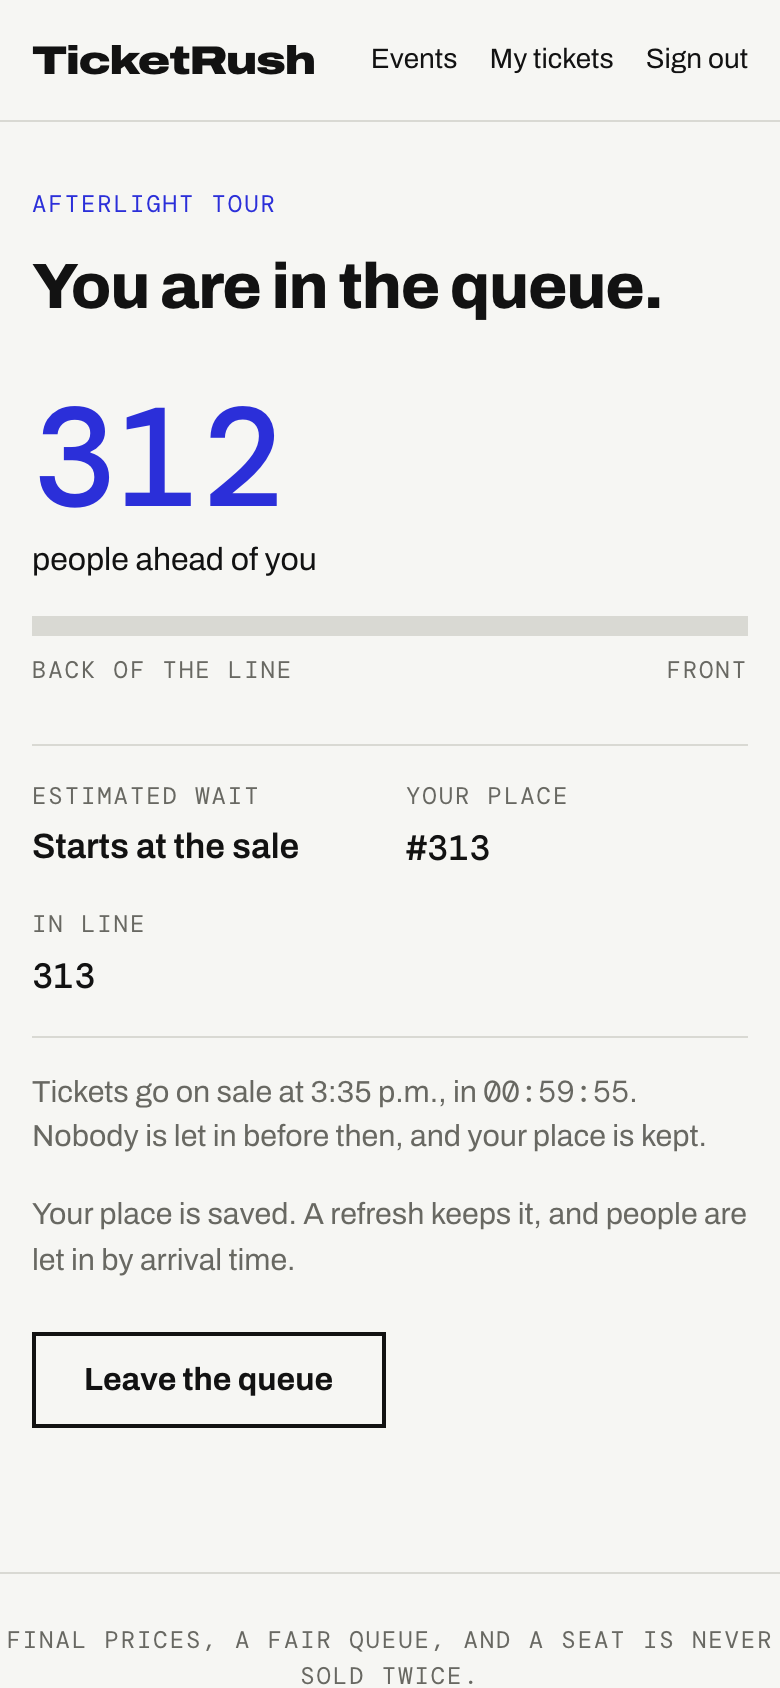
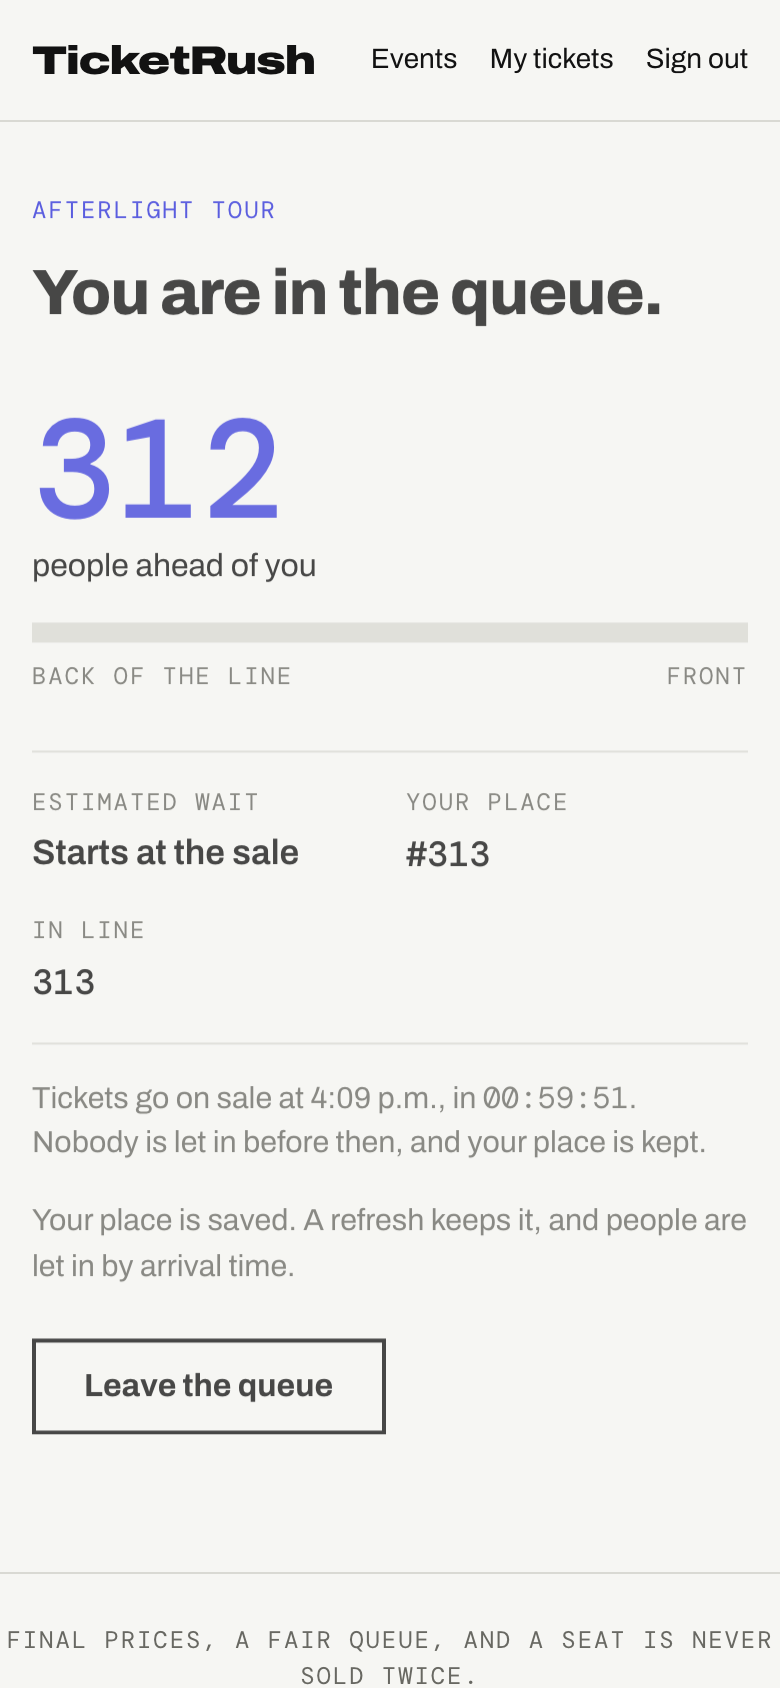
feat(web): screen motion polish, failure tests, error screenshots and decision record
Rolling numbers, seat pop and lift, urgent hold timer, printed-in tickets, breathing pending ring. Errors now render
inside the layout; the offline bar sits in the page flow. End-to-end tests for a failing server, 404, rate limit and
offline, with accessibility scans. ADR 0006.

diff --git a/frontend/e2e/errors.spec.ts b/frontend/e2e/errors.spec.ts
@@ -1,0 +1,72 @@
+import AxeBuilder from '@axe-core/playwright'
+import type { Page } from '@playwright/test'
+import { expect, settle, test } from './support/fixtures'
+
+async function expectAccessible(page: Page, where: string) {
+  await settle(page)
+  const { violations } = await new AxeBuilder({ page }).withTags(['wcag2a', 'wcag2aa', 'wcag21a', 'wcag21aa']).analyze()
+  const serious = violations.filter((v) => v.impact === 'serious' || v.impact === 'critical')
+  expect(serious.map((v) => `${v.id}: ${v.help}`), `Accessibility problems on ${where}`).toEqual([])
+}
+
+const problem = (status: number, title: string, headers: Record<string, string> = {}) => ({
+  status,
+  headers: { 'content-type': 'application/problem+json', ...headers },
+  body: JSON.stringify({ title, status }),
+})
+
+test('when the events cannot be loaded, the guest is told and can try again @mobile', async ({ page }) => {
+  let failing = true
+  await page.route('**/api/events?*', (route) => (failing ? route.fulfill(problem(503, 'Unavailable')) : route.continue()))
+  await page.goto('/')
+
+  const notice = page.getByRole('alert')
+  await expect(notice).toContainText('We could not load the events')
+  await expect(notice).toContainText('not something you did')
+  await expectAccessible(page, 'the events failure notice')
+
+  failing = false
+  await notice.getByRole('button', { name: 'Try again' }).click()
+  await expect(page.getByRole('heading', { name: 'On now' })).toBeVisible()
+  await expect(page.getByRole('alert')).toHaveCount(0)
+})
+
+test('an unknown page or event gets a designed screen with a way home', async ({ page }) => {
+  await page.goto('/events/999999')
+  await expect(page.getByRole('heading', { level: 1, name: 'We could not find that' })).toBeVisible()
+  await expectAccessible(page, 'the not-found screen')
+  await page.getByRole('link', { name: 'See what is on' }).click()
+  await expect(page.getByRole('heading', { name: 'On now' })).toBeVisible()
+
+  await page.goto('/no/such/page')
+  await expect(page.getByRole('heading', { level: 1, name: 'We could not find that page' })).toBeVisible()
+  await page.getByText('Details').click()
+  await expect(page.getByText(/^Reference TR-ERR-/)).toBeVisible()
+})
+
+test('a rate limit shows how long to wait and unlocks the button by itself', async ({ page }) => {
+  await page.route('**/api/auth/login', (route) => route.fulfill(problem(429, 'Too many requests', { 'retry-after': '3' })))
+  await page.goto('/signin')
+  await page.getByLabel('Email').fill('ana@example.org')
+  await page.getByLabel('Password').fill('a-password-here')
+  await page.getByRole('button', { name: 'Sign in' }).click()
+
+  await expect(page.getByRole('alert')).toContainText('Slow down a moment')
+  const button = page.getByRole('button', { name: /^Try again in \d+ s$/ })
+  await expect(button).toBeDisabled()
+  await expect(page.getByRole('button', { name: 'Sign in' })).toBeEnabled({ timeout: 6000 })
+})
+
+test('going offline says so, says nothing is lost, and announces the return', async ({ page, context }) => {
+  await page.goto('/')
+  await expect(page.getByRole('heading', { name: 'On now' })).toBeVisible()
+
+  await context.setOffline(true)
+  await expect(page.getByText('You are offline.')).toBeVisible()
+  await expect(page.getByText(/place in line/)).toBeVisible()
+  await expectAccessible(page, 'the offline bar')
+
+  await context.setOffline(false)
+  await expect(page.getByText('You are back online.')).toBeVisible()
+  await expect(page.getByText('You are back online.')).toBeHidden({ timeout: 6000 })
+})

diff --git a/frontend/src/app/routes.tsx b/frontend/src/app/routes.tsx
@@ -12,21 +12,27 @@ export const routes: RouteObject[] = [
     HydrateFallback: BootFallback,
     errorElement: <RouteError />,
     children: [
-      { index: true, lazy: async () => ({ Component: (await import('../features/discover/Discover')).Discover }) },
-      { path: 'events/:id', lazy: async () => ({ Component: (await import('../features/event/EventPage')).EventPage }) },
       {
-        // Everything below needs a signed-in guest.
-        element: <RequireAuth />,
+        // Errors from a page are shown inside the layout, so the header (and the hold timer) stay put.
+        errorElement: <RouteError />,
         children: [
-          { path: 'events/:id/seats', lazy: async () => ({ Component: (await import('../features/seats/SeatsPage')).SeatsPage }) },
-          { path: 'events/:id/checkout', lazy: async () => ({ Component: (await import('../features/checkout/CheckoutPage')).CheckoutPage }) },
-          { path: 'tickets', lazy: async () => ({ Component: (await import('../features/tickets/TicketsPage')).TicketsPage }) },
-          { path: 'events/:id/queue', lazy: async () => ({ Component: (await import('../features/queue/WaitingRoom')).WaitingRoom }) },
+          { index: true, lazy: async () => ({ Component: (await import('../features/discover/Discover')).Discover }) },
+          { path: 'events/:id', lazy: async () => ({ Component: (await import('../features/event/EventPage')).EventPage }) },
+          {
+            // Everything below needs a signed-in guest.
+            element: <RequireAuth />,
+            children: [
+              { path: 'events/:id/seats', lazy: async () => ({ Component: (await import('../features/seats/SeatsPage')).SeatsPage }) },
+              { path: 'events/:id/checkout', lazy: async () => ({ Component: (await import('../features/checkout/CheckoutPage')).CheckoutPage }) },
+              { path: 'tickets', lazy: async () => ({ Component: (await import('../features/tickets/TicketsPage')).TicketsPage }) },
+              { path: 'events/:id/queue', lazy: async () => ({ Component: (await import('../features/queue/WaitingRoom')).WaitingRoom }) },
+            ],
+          },
+          { path: 'signin', lazy: async () => ({ Component: (await import('../features/auth/pages')).SignIn }) },
+          { path: 'register', lazy: async () => ({ Component: (await import('../features/auth/pages')).Register }) },
+          { path: '*', element: <NotFound /> },
         ],
       },
-      { path: 'signin', lazy: async () => ({ Component: (await import('../features/auth/pages')).SignIn }) },
-      { path: 'register', lazy: async () => ({ Component: (await import('../features/auth/pages')).Register }) },
-      { path: '*', element: <NotFound /> },
     ],
   },
 ]

diff --git a/frontend/src/styles/motion.css b/frontend/src/styles/motion.css
@@ -231,3 +231,85 @@ main > * {
     animation-duration: 0.01ms !important;
   }
 }
+
+/* ---- Screen polish: small movements that say "that registered" ---- */
+
+/* A number that has just changed rolls up into place. Keyed on its text, so only a real change replays it. */
+@keyframes roll-in {
+  from {
+    opacity: 0;
+    transform: translateY(0.4em);
+  }
+  to {
+    opacity: 1;
+    transform: none;
+  }
+}
+
+.roll {
+  display: inline-block;
+  animation: roll-in var(--dur-base) var(--ease-out) both;
+}
+
+/* Seats: lift on hover, pop when chosen. */
+.seat {
+  transition:
+    transform var(--dur-fast) var(--ease-out),
+    background-color var(--dur-fast) var(--ease-out),
+    border-color var(--dur-fast) var(--ease-out);
+}
+
+button.seat--available:hover {
+  transform: translateY(-2px);
+}
+
+button.seat--selected {
+  animation: pop-in var(--dur-base) var(--ease-spring) both;
+}
+
+/* The hold clock arrives with a slide, and below a minute it breathes so it is hard to miss. */
+.site-nav .hold-timer {
+  animation: slide-down-in var(--dur-base) var(--ease-out) both;
+}
+
+.site-nav .hold-timer--urgent {
+  animation: pulse-soft 1.4s var(--ease-in-out) infinite;
+}
+
+/* Cards lift with a hard offset shadow, square like everything else here. */
+.card__link .card__poster {
+  transition:
+    transform var(--dur-base) var(--ease-out),
+    box-shadow var(--dur-base) var(--ease-out),
+    border-color var(--dur-fast) var(--ease-out);
+}
+
+.card__link:hover .card__poster,
+.card__link:focus-visible .card__poster {
+  transform: translate(-3px, -3px);
+  box-shadow: 6px 6px 0 var(--ink);
+}
+
+/* Tickets are printed one after another. */
+.stubs > .stub {
+  animation: ticket-in var(--dur-slow) var(--ease-out) both;
+  animation-delay: calc(var(--i, 0) * 90ms);
+}
+
+/* A payment we are still waiting on: a ring that breathes. Calm, not alarming. */
+.checkout__ring {
+  display: block;
+  width: 56px;
+  height: 56px;
+  margin-block: var(--space-4);
+  border: 3px solid var(--ink);
+  border-radius: 50%;
+  animation: breathe 2.4s var(--ease-in-out) infinite;
+}
+
+@media (prefers-reduced-motion: reduce) {
+  .site-nav .hold-timer--urgent,
+  .checkout__ring {
+    animation: none;
+  }
+}

diff --git a/frontend/scripts/screenshots.ts b/frontend/scripts/screenshots.ts
@@ -42,7 +42,8 @@ async function chooseFree(page: Page, row: string, count: number) {
 }
 
 // The home page and event page come first, while there is only one Afterlight Tour to show.
-const upcoming = await createEvent({ ...afterlight, onSaleInSeconds: 21 * 3600 + 42 * 60 + 10, waitingRoom: true })
+// It happens soon so it sits on the first page of a database that already holds many events (the list is ordered by date).
+const upcoming = await createEvent({ ...afterlight, startsInDays: 2, onSaleInSeconds: 21 * 3600 + 42 * 60 + 10, waitingRoom: true })
 
 await shoot('discover', 1280, 960, async (page) => {
   await page.goto(`${WEB}/`)
@@ -123,6 +124,28 @@ await shoot('tickets', 1280, 1000, async (page) => {
 await shoot('tickets-phone', 390, 844, async (page) => {
   await page.goto(`${WEB}/tickets`)
   await page.locator('img.stub__qr').first().waitFor()
+  await page.waitForTimeout(500)
+})
+
+// What going wrong looks like. Each failure is made on purpose in the browser, the backend is untouched.
+await shoot('error-load', 1280, 700, async (page) => {
+  await page.route('**/api/events?*', (route) => route.fulfill({ status: 503, contentType: 'application/problem+json', body: '{"title":"Unavailable","status":503}' }))
+  await page.goto(`${WEB}/`)
+  await page.getByRole('alert').waitFor()
+  await page.waitForTimeout(700)
+})
+
+await shoot('error-not-found', 1280, 700, async (page) => {
+  await page.goto(`${WEB}/events/999999`)
+  await page.getByRole('heading', { level: 1, name: 'We could not find that' }).waitFor()
+  await page.waitForTimeout(900)
+})
+
+await shoot('error-offline-phone', 390, 844, async (page) => {
+  await page.goto(`${WEB}/events/${queued.id}/queue`)
+  await page.getByText('312', { exact: true }).waitFor()
+  await page.context().setOffline(true)
+  await page.getByText('You are offline.').waitFor()
   await page.waitForTimeout(500)
 })
 

diff --git a/frontend/src/features/seats/SeatsPage.tsx b/frontend/src/features/seats/SeatsPage.tsx
@@ -1,3 +1,4 @@
+import { RollingNumber } from '../../components/RollingNumber'
 import { Notice } from '../../components/Notice'
 import { useToast } from '../../components/Toast'
 import { describeError, type Tone } from '../../lib/errorCopy'
@@ -185,9 +186,9 @@ function SeatsBody({ event, map, hold }: { event: EventDetail; map: SeatMapData;
                 ))}
               </ul>
               <dl className="panel__totals">
-                <div><dt>Tickets</dt><dd className="num">{formatMoney(subtotal)}</dd></div>
+                <div><dt>Tickets</dt><dd className="num"><RollingNumber value={formatMoney(subtotal)} /></dd></div>
                 <div><dt>Fees</dt><dd className="num">{formatMoney(fees)}</dd></div>
-                <div className="panel__total"><dt>Total</dt><dd className="num">{formatMoney(total)}</dd></div>
+                <div className="panel__total"><dt>Total</dt><dd className="num"><RollingNumber value={formatMoney(total)} /></dd></div>
               </dl>
             </>
           )}

diff --git a/frontend/src/features/tickets/TicketStub.tsx b/frontend/src/features/tickets/TicketStub.tsx
@@ -4,13 +4,13 @@ import { useQrImage } from './api'
 import { formatCode } from './format'
 
 /** A ticket as the design draws it: the event's own colors, a perforation, the QR code and the code as text. */
-export function TicketStub({ ticket, event }: { ticket: MyTicket; event: EventDetail }) {
+export function TicketStub({ ticket, event, index = 0 }: { ticket: MyTicket; event: EventDetail; index?: number }) {
   const qr = useQrImage(ticket.id)
   const seat = `${ticket.section}, row ${ticket.row}, seat ${ticket.number}`
   const used = ticket.status !== 'ISSUED'
 
   return (
-    <li className={`stub${used ? ' stub--used' : ''}`}>
+    <li className={`stub${used ? ' stub--used' : ''}`} style={{ '--i': index } as React.CSSProperties}>
       <div className="stub__main">
         <p className="label stub__label">{ticket.orderReference}</p>
         <h3 className="stub__seat">{seat}</h3>

diff --git a/frontend/src/components/connection.css b/frontend/src/components/connection.css
@@ -1,21 +1,16 @@
 .connection {
-  position: fixed;
-  z-index: 8;
-  top: 61px; /* just under the header */
-  left: 0;
-  right: 0;
+  /* In the page's flow, under the header: it pushes the page down rather than covering what the guest is reading. */
   display: flex;
   justify-content: center;
-  pointer-events: none;
 }
 
 .connection__bar {
-  pointer-events: auto;
   display: flex;
   align-items: center;
   gap: var(--space-3);
   padding: var(--space-2) var(--space-4);
-  max-width: min(100% - 2 * var(--gutter), 720px);
+  width: 100%;
+  justify-content: center;
   font-size: 0.9rem;
   color: var(--paper);
   animation: slide-down-in var(--dur-base) var(--ease-out) both;
@@ -33,4 +28,8 @@
   .connection__bar {
     animation: none;
   }
+}
+
+.connection__bar svg {
+  flex: none;
 }

diff --git a/frontend/src/features/queue/WaitingRoom.tsx b/frontend/src/features/queue/WaitingRoom.tsx
@@ -1,3 +1,4 @@
+import { RollingNumber } from '../../components/RollingNumber'
 import { ErrorScreen } from '../../components/ErrorScreen'
 import { useQueryClient } from '@tanstack/react-query'
 import { useEffect, useState } from 'react'
@@ -136,7 +137,7 @@ function RoomBody({ event, onRejoin }: { event: EventDetail; onRejoin: () => voi
       <p className="queue__ahead" aria-hidden="true">
         {view.aheadOfYou > 0 ? (
           <>
-            <span className="queue__count num">{view.aheadOfYou.toLocaleString('en-CA')}</span>
+            <RollingNumber className="queue__count num" value={view.aheadOfYou.toLocaleString('en-CA')} />
             <span>{view.aheadOfYou === 1 ? 'person ahead of you' : 'people ahead of you'}</span>
           </>
         ) : (

diff --git a/frontend/src/features/checkout/CheckoutPage.tsx b/frontend/src/features/checkout/CheckoutPage.tsx
@@ -193,6 +193,7 @@ function CheckoutBody({ event, hold }: { event: EventDetail; hold: HoldView }) {
     return (
       <div className="page checkout" style={eventTheme(event.poster)}>
         <h1>Confirming your payment</h1>
+        <span className="checkout__ring" aria-hidden="true" />
         <p className="checkout__lead" role="status">
           Your payment is taking longer than usual. <strong>Please do not pay again.</strong> Your seats are being kept for you, and this page updates by itself as soon as we hear back.
         </p>

diff --git a/frontend/src/features/seats/HoldTimer.tsx b/frontend/src/features/seats/HoldTimer.tsx
@@ -21,7 +21,7 @@ export function HoldTimer() {
 
   if (!hold || remaining <= 0) return null
   return (
-    <Link to={`/events/${hold.eventId}/checkout`} className="hold-timer">
+    <Link to={`/events/${hold.eventId}/checkout`} className={`hold-timer${remaining < 60_000 ? ' hold-timer--urgent' : ''}`}>
       <span className="label">Held for</span> <time className="num" role="timer" aria-label={`Seats held for ${formatMinutes(remaining)}`}>{formatMinutes(remaining)}</time>
     </Link>
   )

diff --git a/frontend/src/features/tickets/TicketsPage.tsx b/frontend/src/features/tickets/TicketsPage.tsx
@@ -69,8 +69,8 @@ export function TicketsPage() {
               )}
               {event ? (
                 <ul className="stubs">
-                  {list.map((t) => (
-                    <TicketStub key={t.id} ticket={t} event={event} />
+                  {list.map((t, i) => (
+                    <TicketStub key={t.id} ticket={t} event={event} index={i} />
                   ))}
                 </ul>
               ) : (

diff --git a/frontend/src/components/RollingNumber.tsx b/frontend/src/components/RollingNumber.tsx
@@ -1,0 +1,8 @@
+/** Shows a value that changes now and then (a total, a place in line); a new value rolls in instead of jumping. */
+export function RollingNumber({ value, className = '' }: { value: string; className?: string }) {
+  return (
+    <span key={value} className={`roll ${className}`.trim()}>
+      {value}
+    </span>
+  )
+}
